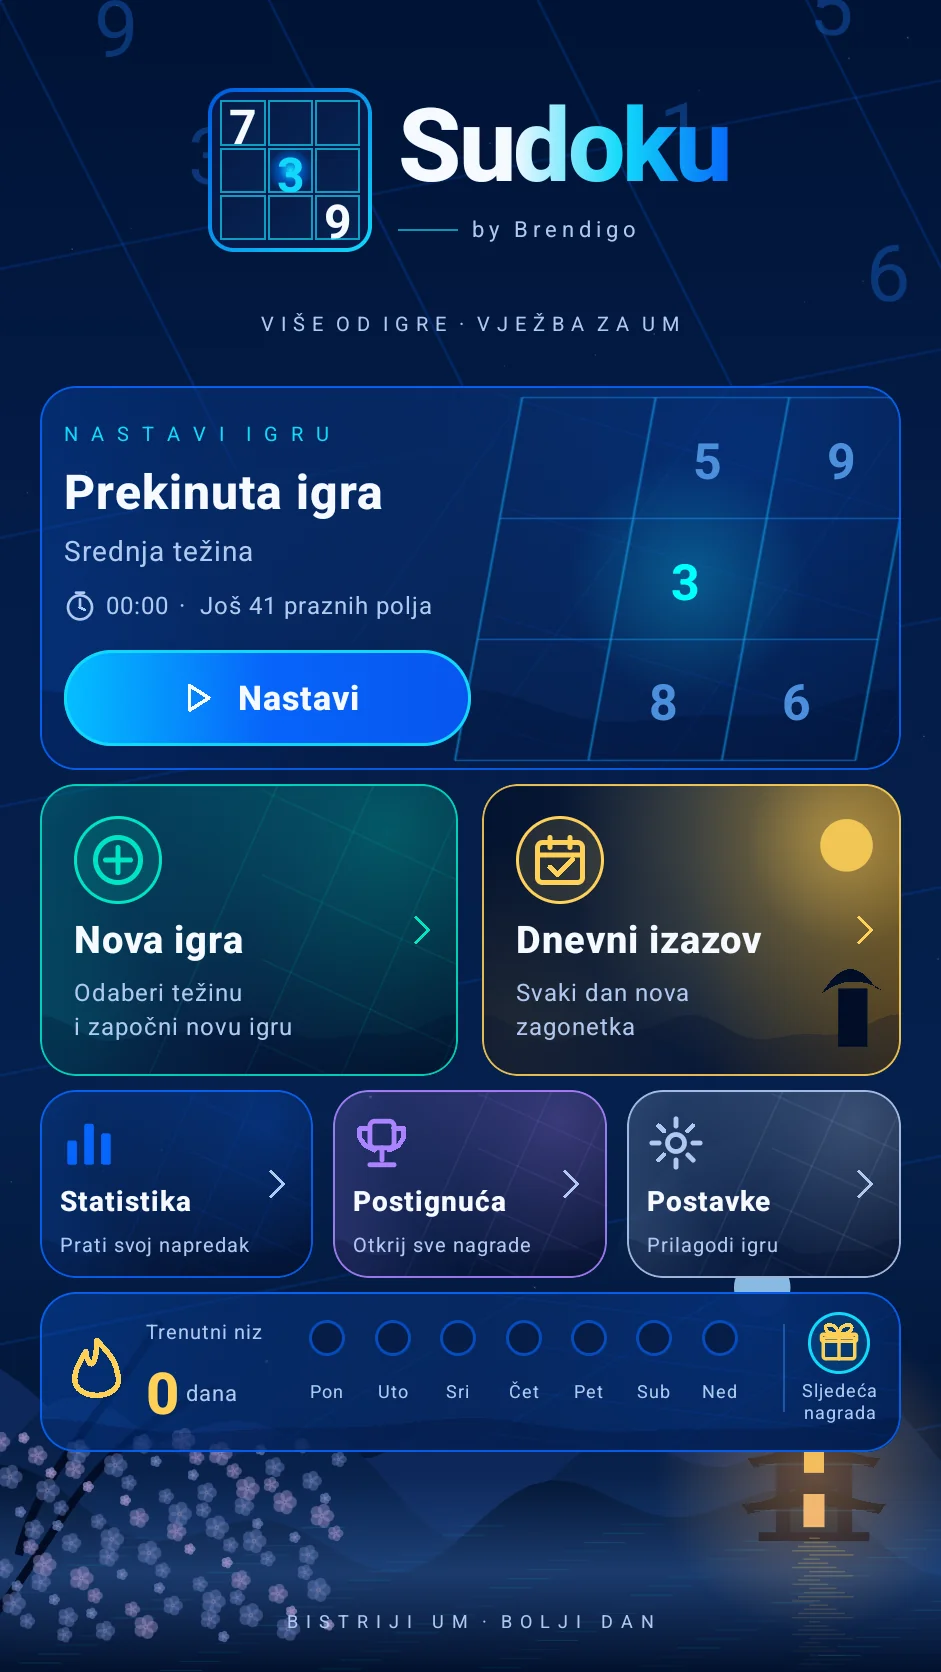
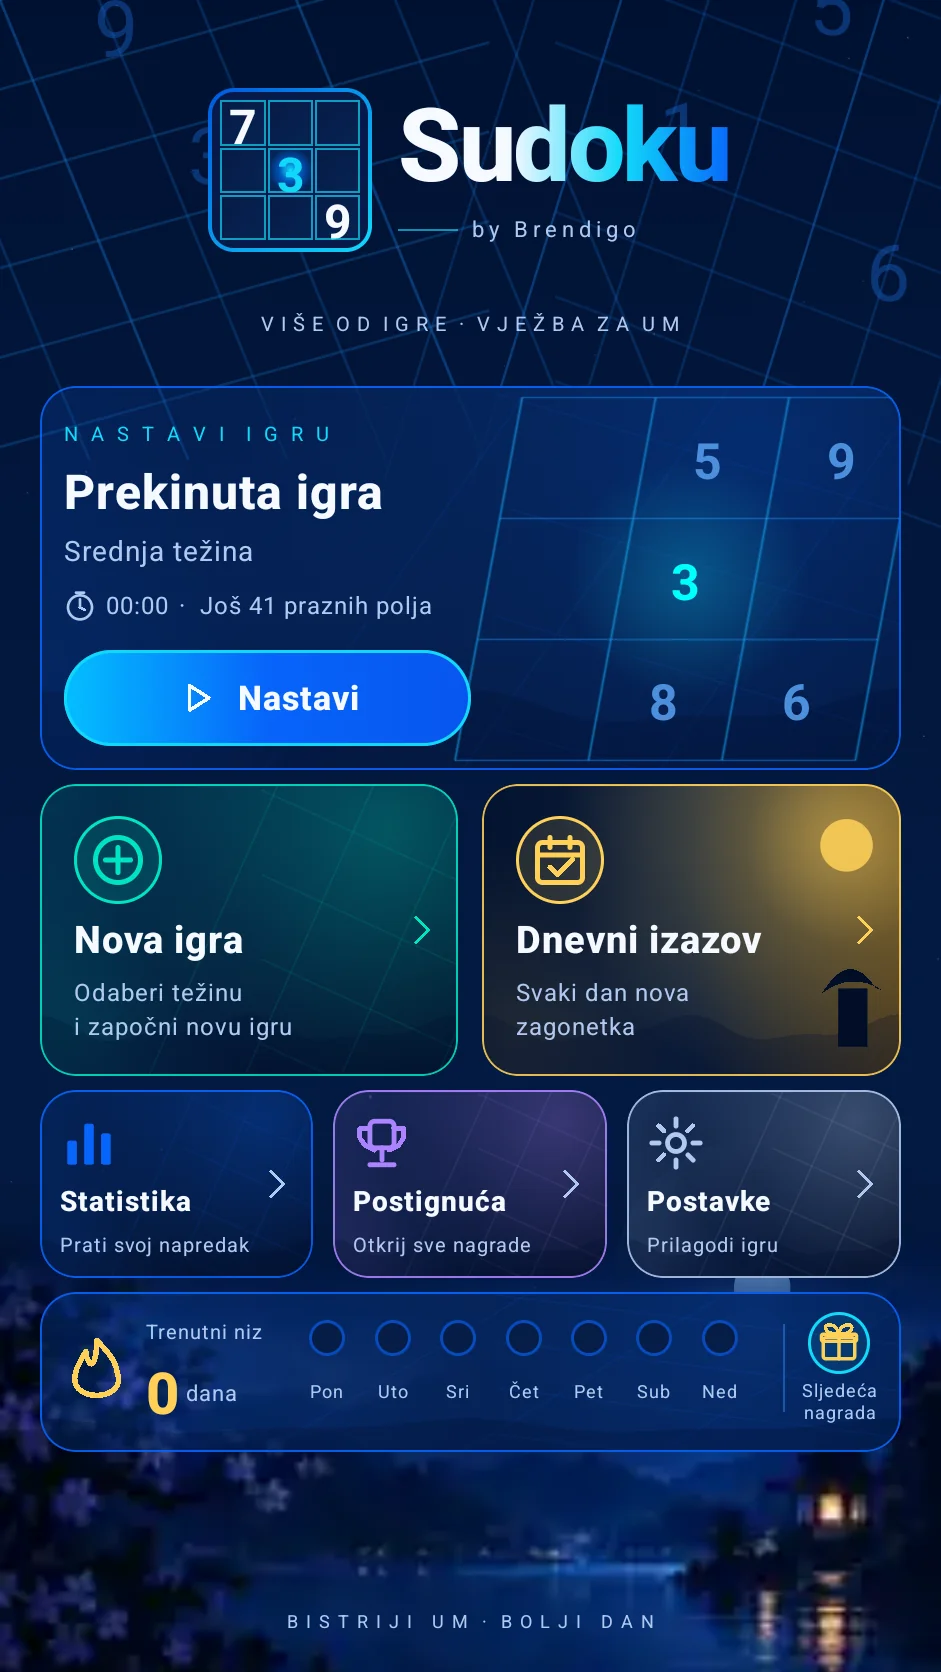
Sudoku v1.0.38: source artwork and measurable visual parity gains (#45)
* Match shared cool neon cards and dark mountain palette closer to original reference screens

* Reconstruct two angled Sudoku watermark grids from 941×1672 reference geometry

* Capture eight real screenshots from v1.0.38 visual-parity branch

* docs(marketing): add real Android UI screenshot gallery [skip ci]

* Add optimized original lower-nightscape artwork from owner-supplied screenshot (no UI flattened)

* Render authentic optimized owner-supplied landscape behind fully interactive Compose UI

* docs(marketing): add real Android UI screenshot gallery [skip ci]

* Bump Sudoku Android release to v1.0.38 versionCode 39

* Update real-screenshot marketing README to v1.0.38

* Document quantified all-screen visual fidelity gains for v1.0.38

* Instrumented check ensures original cropped scenery decodes, fades and stays separate from UI

* Record per-screen before/after real RGB MAE and source-art preservation boundaries

* docs(marketing): add real Android UI screenshot gallery [skip ci]

---------

diff --git a/app/src/main/java/com/brendigo/sudoku/ui/SudokuDesign.kt b/app/src/main/java/com/brendigo/sudoku/ui/SudokuDesign.kt
@@ -10,6 +10,9 @@ import androidx.compose.material3.darkColorScheme
 import androidx.compose.material3.lightColorScheme
 import androidx.compose.material3.Text
 import androidx.compose.runtime.Composable
+import androidx.compose.runtime.remember
+import androidx.compose.ui.platform.LocalContext
+import android.graphics.BitmapFactory
 import androidx.compose.ui.Alignment
 import androidx.compose.ui.Modifier
 import androidx.compose.ui.draw.clip
@@ -19,7 +22,12 @@ import androidx.compose.ui.geometry.Offset
 import androidx.compose.ui.graphics.Brush
 import androidx.compose.ui.graphics.Color
 import androidx.compose.ui.graphics.Path
+import androidx.compose.ui.graphics.asImageBitmap
+import androidx.compose.ui.graphics.FilterQuality
 import androidx.compose.ui.graphics.drawscope.Stroke
+import androidx.compose.ui.unit.IntOffset
+import androidx.compose.ui.unit.IntSize
+import kotlin.math.roundToInt
 import androidx.compose.ui.graphics.nativeCanvas
 import androidx.compose.ui.graphics.drawscope.drawIntoCanvas
 import androidx.compose.ui.text.TextStyle
@@ -57,9 +65,21 @@ fun SudokuTheme(dark: Boolean = true, content: @Composable () -> Unit) {
     MaterialTheme(colorScheme = scheme, content = content)
 }
 
-/** Custom original vector scenery: no bitmap stretching and no photo/network assets. */
+/**
+ * Composited visual background: procedural interactive-scale gradients,
+ * plus a small compressed artwork layer extracted from the owner's original
+ * noninteractive scenery. No full-screen screenshot replaces any UI.
+ */
 @Composable
 fun ScenicBackdrop(modifier: Modifier = Modifier, bright: Boolean = false, splash: Boolean = false) {
+    val context = LocalContext.current
+    val originalNightscape = remember(context) {
+        runCatching {
+            context.assets.open("scenery-reference.webp").use {
+                BitmapFactory.decodeStream(it)?.asImageBitmap()
+            }
+        }.getOrNull()
+    }
     Canvas(modifier) {
         val w = size.width
         val h = size.height
@@ -69,16 +89,35 @@ fun ScenicBackdrop(modifier: Modifier = Modifier, bright: Boolean = false, splas
                     Color(0xFF163D79), Color(0xFF255A9C),
                     Color(0xFF12376F), Color(0xFF091F46)
                 )
-                else listOf(Color(0xFF001335), Color(0xFF041C48), Color(0xFF05204C), Color(0xFF01102B)),
+                else listOf(Color(0xFF001132), Color(0xFF03173D), Color(0xFF031A43), Color(0xFF010D26)),
                 startY = 0f, endY = h,
             )
         )
-        // Faint oversized sudoku grid, like the supplied artwork.
-        val spacing = w / 3.5f
-        for (i in -2..8) {
-            val x = i * spacing
-            drawLine(Ink.blue.copy(alpha = .20f), Offset(x, 0f), Offset(x + w * .25f, h * .28f), 2.5f)
-            drawLine(Ink.blue.copy(alpha = .16f), Offset(0f, x), Offset(w, x - w * .20f), 2.5f)
+        // The reference has TWO separate angled Sudoku grids flanking
+        // a dark central title area, not one grid crossing the full screen.
+        // Geometry is anchored to viewport width, not device pixel density.
+        // Keep it purely decorative so Compose buttons retain touch semantics.
+        for (i in -1..5) {
+            val x = i * w * .105f
+            val leftColor = Color(0xFF1267BD).copy(alpha = if (i % 3 == 0) .46f else .27f)
+            drawLine(leftColor, Offset(x, 0f),
+                Offset(x + w * .20f, h * .275f), strokeWidth = w * .0029f)
+            val y = i * w * .095f
+            if (y < h * .30f) {
+                drawLine(Color(0xFF146FC0).copy(alpha = .30f),
+                    Offset(0f, y), Offset(w * .52f, y - w * .145f),
+                    strokeWidth = w * .0028f)
+            }
+            val rightX = w * (.66f + i * .093f)
+            drawLine(Color(0xFF1268C5).copy(alpha = if (i % 3 == 0) .46f else .26f),
+                Offset(rightX, 0f), Offset(rightX - w * .16f, h * .29f),
+                strokeWidth = w * .0026f)
+            val rightY = i * w * .090f
+            if (rightY < h * .30f) {
+                drawLine(Color(0xFF0D5AAE).copy(alpha = .24f),
+                    Offset(w * .59f, rightY - w * .045f),
+                    Offset(w, rightY + w * .110f), strokeWidth = w * .0028f)
+            }
         }
         // Large translucent Sudoku digits are part of the original visual motif.
         // Native canvas text here is decoration, never interactive content.
@@ -133,12 +172,12 @@ fun ScenicBackdrop(modifier: Modifier = Modifier, bright: Boolean = false, splas
         val distantMountainY = if (splash) .756f else .847f
         val nearMountainY = if (splash) .806f else .875f
         val lakeHorizon = if (splash) .843f else .910f
-        mountains(h * distantMountainY, h * .035f, Color(0xFF102B60).copy(alpha = .82f), 2.2f)
-        mountains(h * nearMountainY, h * .048f, Color(0xFF08214A), .1f)
-        mountains(h * lakeHorizon, h * .034f, Color(0xFF031533), 1.5f)
+        mountains(h * distantMountainY, h * .035f, Color(0xFF091F50).copy(alpha = .87f), 2.2f)
+        mountains(h * nearMountainY, h * .048f, Color(0xFF061B40), .1f)
+        mountains(h * lakeHorizon, h * .034f, Color(0xFF02132D), 1.5f)
         drawRect(
             Brush.verticalGradient(
-                listOf(Color(0x00226BD0), Color(0x88305CA0), Color(0xFF02112E)),
+                listOf(Color(0x00226BD0), Color(0x88234993), Color(0xFF010D27)),
                 startY = h * (lakeHorizon - .03f), endY = h,
             ),
             topLeft = Offset(0f, h * (lakeHorizon - .03f)),
@@ -227,8 +266,8 @@ fun ScenicBackdrop(modifier: Modifier = Modifier, bright: Boolean = false, splas
             val y = h * ((if (splash) .80f else .86f) +
                 (if (splash) .18f else .12f) * ((i * 37 % 103) / 103f))
             val radius = w * (.0024f + (i % 4) * .0009f)
-            val hue = if (i % 3 == 0) Color(0xFF9A8EC4) else Color(0xFF6477B4)
-            val opacity = if (i % 4 == 0) .70f else .46f
+            val hue = if (i % 3 == 0) Color(0xFF8274AE) else Color(0xFF485C96)
+            val opacity = if (i % 4 == 0) .60f else .38f
             for (petal in 0..4) {
                 val radians = petal * 1.256637f
                 drawCircle(
@@ -244,6 +283,21 @@ fun ScenicBackdrop(modifier: Modifier = Modifier, bright: Boolean = false, splas
                 Color(0xFFD2B4C7).copy(alpha = opacity * .55f),
                 radius = radius * .49f,
                 center = Offset(x, y),
+            )
+        }
+
+        // Precise source-art detail, not a flattened game screenshot.
+        // The source image contains only scenery beneath all buttons and
+        // card interactions. Its first pixels fade in to avoid a visible seam.
+        originalNightscape?.let { art ->
+            val y = if (splash) .613f else .730f
+            val height = if (splash) .387f else .390f
+            drawImage(
+                image = art,
+                srcSize = IntSize(art.width, art.height),
+                dstOffset = IntOffset(0, (h * y).roundToInt()),
+                dstSize = IntSize(w.roundToInt(), (h * height).roundToInt()),
+                filterQuality = FilterQuality.Medium,
             )
         }
     }
@@ -343,8 +397,10 @@ fun NeonPanel(
                     listOf(Color(0xFC04132F), Color(0xF4091B3A),
                         Color(0xF940311A)),
                 ) else Brush.linearGradient(
-                    listOf(highlight.copy(alpha = .23f),
-                        Color(0xF3071C42), Color(0xFB03102B)),
+                    // Reference surfaces are substantially darker than the
+                    // previous electric-blue glass treatment.
+                    listOf(highlight.copy(alpha = .14f),
+                        Color(0xF3051739), Color(0xFB030F29)),
                 ),
             )
             .border(1.dp, highlight.copy(alpha = .88f),

diff --git a/app/src/androidTest/java/com/brendigo/sudoku/SudokuSceneryAssetTest.kt b/app/src/androidTest/java/com/brendigo/sudoku/SudokuSceneryAssetTest.kt
@@ -1,0 +1,37 @@
+package com.brendigo.sudoku
+
+import android.graphics.BitmapFactory
+import android.graphics.Color
+import androidx.test.ext.junit.runners.AndroidJUnit4
+import androidx.test.platform.app.InstrumentationRegistry
+import org.junit.Assert.assertEquals
+import org.junit.Assert.assertTrue
+import org.junit.Test
+import org.junit.runner.RunWith
+
+/**
+ * The lower scenery is extracted from the owner's reference illustration:
+ * it must decode reliably and never replace the interactive Sudoku UI.
+ */
+@RunWith(AndroidJUnit4::class)
+class SudokuSceneryAssetTest {
+    @Test
+    fun originalArtworkLoadsAndFadesIntoTheNativeBackdrop() {
+        val context = InstrumentationRegistry.getInstrumentation().targetContext
+        val bitmap = context.assets.open("scenery-reference.webp").use { stream ->
+            BitmapFactory.decodeStream(stream)
+        }
+        requireNotNull(bitmap) { "Original nightscape WebP is missing or cannot decode" }
+        try {
+            assertEquals(236, bitmap.width)
+            assertEquals(162, bitmap.height)
+            assertTrue("Scenery should retain alpha for blending", bitmap.hasAlpha())
+            assertTrue("Top row must fade into the real Compose background",
+                Color.alpha(bitmap.getPixel(bitmap.width / 2, 0)) < 128)
+            assertTrue("Nightscape should become fully visible near the bottom",
+                Color.alpha(bitmap.getPixel(bitmap.width / 2, bitmap.height - 1)) > 245)
+        } finally {
+            bitmap.recycle()
+        }
+    }
+}

diff --git a/docs/pixel-parity-v1.0.38.md b/docs/pixel-parity-v1.0.38.md
@@ -1,0 +1,75 @@
+# Pixel-parity revizija — Sudoku by Brendigo 1.0.38
+
+**Izvor vizuala:** korisnikovi originalni PNG-ovi (941 × 1672) dostupni kao
+referentne datoteke, ne screenshotovi nove aplikacije. Za 09-wordmark i
+10-launcher-icon postoje zasebne originalne reference (1254 × 1254);
+one se ovim commitom **ne proglašavaju riješenima**.
+
+**Izvor stvarnih screenshotova:** Android emulator API 35, 941 × 1672,
+320 dpi, screenshot smoke test. Rezolucija 720 × 1280 i dalje služi za
+smoke test responzivnosti, ne za direktnu usporedbu s 941 × 1672 referencama.
+
+**Metrika:** nenormalizirana apsolutna RGB razlika, prosjek po kanalu,
+0–255; niže je bolje. Bez izmišljanja korisničke statistike ili
+upisivanja rezultata u produkcijsku aplikaciju.
+
+| Zaslon | v1.0.37 MAE | v1.0.38 kandidat MAE | Promjena |
+|---|---:|---:|---:|
+| Početni | 29,311 | 26,381 | −2,930 |
+| Nova igra | 29,061 | 26,552 | −2,509 |
+| Igra | 23,150 | 21,608 | −1,542 |
+| Postavke | 27,726 | 24,171 | −3,555 |
+| Dnevni izazov | 29,687 | 26,936 | −2,751 |
+| Statistika | 30,988 | 28,813 | −2,175 |
+| Postignuća | 32,184 | 30,528 | −1,656 |
+| Splash | 22,485 | 14,223 | −8,262 |
+
+Prosjek osam ekrana: **28,074 → 24,902**, pad od približno 11,3 %.
+Na sedam interaktivnih ekrana prosjek je **28,872 → 26,427**.
+
+Za točnu reprodukciju usporedbe koristite postojeći
+`scripts/pixel_compare.py` s lokalnim originalnim PNG-ovima
+i snimkama iz workflowa Android visual smoke, uključujući `--include-splash`.
+Nije dozvoljeno dodavati zamrznute ili izmišljene korisničke podatke
+kako bi izgled bio bolje ocijenjen.
+
+## Konkretne promjene
+
+1. Jedinstvena dekorativna mreža zamijenjena je dvjema ugaonim
+   skupinama mrežnih crta na lijevom i desnom gornjem dijelu.
+2. Tamni plavi gradijenti kartica, planinski slojevi, voda i latice
+   približeni su izvornim tamnijim tonovima, bez brisanja njihovih
+   funkcionalnih Compose kontrola.
+3. Dodana je mala **236 × 162 WebP (2.692 B) izvorna ilustracija**
+   koja sadrži samo donji noćni krajolik, izrezan iz korisnikove
+   originalne splash reference. Statični spinner iz originala
+   uklonjen je iz dekorativnog izreza; pravi Compose spinner
+   ostaje funkcionalan.
+4. Izrez ima postupno transparentan gornji rub, skalira se sa
+   zaslonom i crta se iza svih tipki, teksta i Sudoku ploča.
+   Nije uveden nijedan screenshot interaktivnog zaslona.
+
+## Ograničenja i iduća dorada
+
+- Vizualni identitet i sve funkcije ostali su očuvani, ali **MAE nije 0**:
+  ova iteracija nije puna pixel-perfect 1:1 vjernost.
+- Najveće preostale razlike su unutarnje ilustracije nagradnih
+  kartica (postignuća, statistika), precizne ikone i font rendering.
+- Različiti brojevi Sudoku zagonetki, vrijeme i stvarna statistika
+  pridonose RGB MAE u igri i podacima; za UI-only metriku
+  potrebna je kontrolirana debug snimka i maskiranje takvih regija.
+- Za sljedeću iteraciju korisne su zasebne originalne logo i adaptive
+  icon reference, uz nastavak optimizacije bez bespotrebnih ovisnosti.
+- Reproducirani prikaz ekrana mora ostati ovisan o stvarnom stanju
+  kontrolera i nastavku spremljene partije, ne o PNG overlayu.
+
+## Kontrola regresija
+
+- Kotlin/JUnit, Android Lint i Android release bundle build
+- Instrumentirani UI testovi i stvarne snimke 941 × 1672 / 720 × 1280
+- `SudokuSceneryAssetTest` potvrđuje da originalni WebP pravilno
+  dekodira i transparentno prelazi u Compose pozadinu
+- `SudokuVisualSmokeTest` potvrđuje navigaciju i stvarne ekrane
+
+Podaci predstavljaju izmjerene snimke konkretne razvojne grane, a
+završni release treba izgraditi iz spojenog i provjerenog `main` commita.

diff --git a/CHANGELOG.md b/CHANGELOG.md
@@ -1,3 +1,13 @@
+## 1.0.38 — Mjerljiva vizualna usklađenost s izvornim 1:1 referencama
+
+- Značajnija revizija svih osam Compose zaslona bez uklanjanja postojećih funkcija i bez screenshotova umjesto interaktivnih elemenata.
+- Korišten optimizirani originalni **neinteraktivni donji krajolik** iz korisnikove referentne slike (236 × 162 WebP, 2692 B): mjesec, planine, jezero, cvjetne grane, paviljon. Gornji rub postepeno prelazi u Compose proceduralnu pozadinu.
+- Preoblikovane dekorativne Sudoku mreže na dvije naglašene ukošene skupine. Zatamnjene zajedničke plave kartice, planine i jezero prema izmjerenim bojama iz originalnih PNG-ova.
+- Poboljšan stvarni RGB MAE na 941×1672 na **svih osam** snimljenih zaslona; konkretne izmjerene vrijednosti u `docs/pixel-parity-v1.0.38.md`.
+- Izvorni Android UI ostaje interaktivan i responzivan, uključujući 4×4/6×6/9×9 igre, statistiku, postignuća, Settings i sigurnosne kopije.
+- Android CI i oba emulatora prošli su s modificiranom vizualnom implementacijom. Raspored i ponašanje na malim zaslonima dodatno su pokriveni smoke testovima.
+- `versionName=1.0.38`, `versionCode=39`. Postizanje točnog pixel-perfect 1:1 nije potvrđeno; ne predstavljati MAE=0.
+
 ## 1.0.37 — Zaštita napretka pri uvozu i izvozu
 
 - Šifrirana sigurnosna kopija više ne smije biti prazna ili sadržavati samo postavke bez provjerljive statistike; takve datoteke ne mogu izbrisati postojeći napredak.

diff --git a/README.md b/README.md
@@ -6,7 +6,7 @@
 
 **Premium Sudoku za Android • Na hrvatskom • Bez interneta • Bez oglasa**
 
-**Izdanje 1.0.37** · Android 8.0+ · Bez oglasa · Bez interneta
+**Izdanje 1.0.38** · Android 8.0+ · Bez oglasa · Bez interneta
 
 <img src="branding/sudoku-feature-graphic.svg" alt="Sudoku by Brendigo — plava neonska mreža, noćne planine i mjesečina" width="880" />
 
@@ -132,4 +132,4 @@ s internetom: deinstalacija ili kvar uređaja mogu ga trajno ukloniti.
 
 ### Privatna sigurnosna kopija
 
-Uz Sudoku 1.0.37 možete ručno izvesti lokalni napredak u šifriranu `.sudoku` datoteku i vratiti ga uz svoju lozinku i izričitu potvrdu. Kopija se sprema tamo gdje sami odaberete u Androidovu pregledniku datoteka — aplikacija ne zahtijeva internetsku vezu niti račun. Zaštitite lozinku: nije moguće obnoviti zaboravljenu lozinku. Sve slike zaslona iznad stvarne su snimke emulatora, ne dizajnerski prikazi.
+Uz Sudoku 1.0.38 možete ručno izvesti lokalni napredak u šifriranu `.sudoku` datoteku i vratiti ga uz svoju lozinku i izričitu potvrdu. Kopija se sprema tamo gdje sami odaberete u Androidovu pregledniku datoteka — aplikacija ne zahtijeva internetsku vezu niti račun. Zaštitite lozinku: nije moguće obnoviti zaboravljenu lozinku. Sve slike zaslona iznad stvarne su snimke emulatora, ne dizajnerski prikazi.
